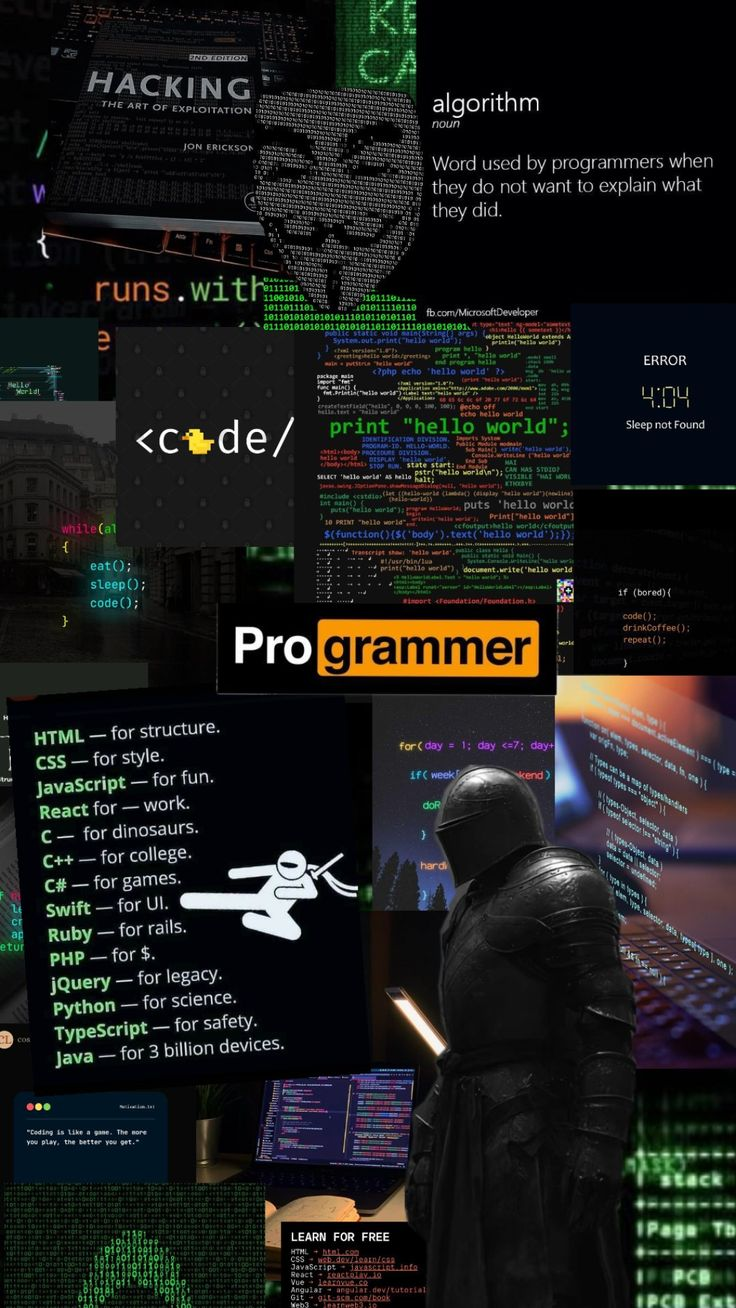
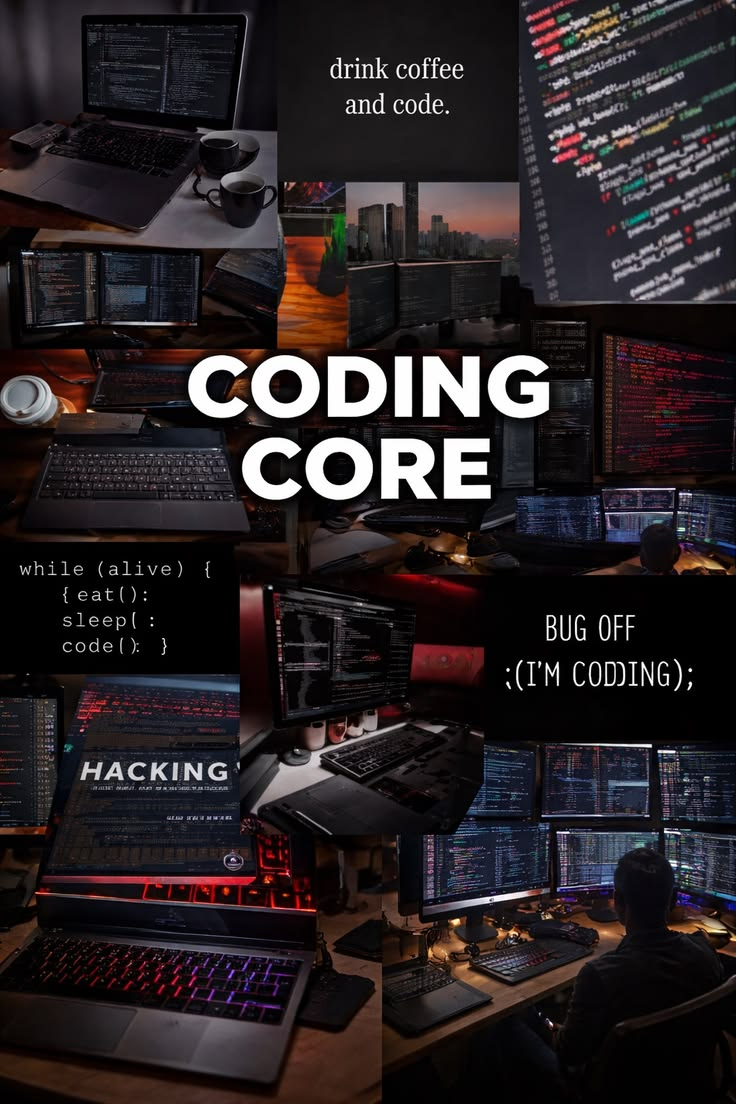
thumbs novas

diff --git a/index.html b/index.html
@@ -49,10 +49,10 @@
             <section class="videos">
 
                 <article class="card">
-                    <a href=""><img class="thumbnail" src="/teste/assets/thumb1.jpeg" alt="Título do vídeo"></a>
+                    <a href=""><img class="thumbnail" src="/assets/thumb1.jpeg" alt="Título do vídeo"></a>
 
                     <div class="card-info">
-                        <img class="avatar" src="/teste/assets/canal1.png" alt="Canal">
+                        <img class="avatar" src="/assets/canal1.png" alt="Canal">
 
                         <div class="info">
                             <h3 class="titulo">Título do vídeo</h3>
@@ -62,10 +62,10 @@
                     </div>
                  </article>
                  <article class="card">
-                    <a href=""><img class="thumbnail" src="/teste/assets/thumb1.jpeg" alt="Título do vídeo"></a>
+                    <a href=""><img class="thumbnail" src="/assets/thumb2.jpeg" alt="Título do vídeo"></a>
 
                     <div class="card-info">
-                        <img class="avatar" src="/teste/assets/canal1.png" alt="Canal">
+                        <img class="avatar" src="/assets/canal1.png" alt="Canal">
 
                         <div class="info">
                             <h3 class="titulo">Título do vídeo</h3>
@@ -75,10 +75,10 @@
                     </div>
                  </article>
                  <article class="card">
-                    <a href=""><img class="thumbnail" src="/teste/assets/thumb1.jpeg" alt="Título do vídeo"></a>
+                    <a href=""><img class="thumbnail" src="/assets/thumb3.jpeg" alt="Título do vídeo"></a>
 
                     <div class="card-info">
-                        <img class="avatar" src="/teste/assets/canal1.png" alt="Canal">
+                        <img class="avatar" src="/assets/canal1.png" alt="Canal">
 
                         <div class="info">
                             <h3 class="titulo">Título do vídeo</h3>
@@ -88,10 +88,10 @@
                     </div>
                  </article>
                  <article class="card">
-                    <a href=""><img class="thumbnail" src="/teste/assets/thumb1.jpeg" alt="Título do vídeo"></a>
+                    <a href=""><img class="thumbnail" src="/assets/thumb2.jpeg" alt="Título do vídeo"></a>
 
                     <div class="card-info">
-                        <img class="avatar" src="/teste/assets/canal1.png" alt="Canal">
+                        <img class="avatar" src="/assets/canal1.png" alt="Canal">
 
                         <div class="info">
                             <h3 class="titulo">Título do vídeo</h3>
@@ -101,10 +101,10 @@
                     </div>
                  </article>
                  <article class="card">
-                    <a href=""><img class="thumbnail" src="/teste/assets/thumb1.jpeg" alt="Título do vídeo"></a>
+                    <a href=""><img class="thumbnail" src="/assets/thumb3.jpeg" alt="Título do vídeo"></a>
 
                     <div class="card-info">
-                        <img class="avatar" src="/teste/assets/canal1.png" alt="Canal">
+                        <img class="avatar" src="/assets/canal1.png" alt="Canal">
 
                         <div class="info">
                             <h3 class="titulo">Título do vídeo</h3>
@@ -114,10 +114,10 @@
                     </div>
                  </article>
                  <article class="card">
-                    <a href=""><img class="thumbnail" src="/teste/assets/thumb1.jpeg" alt="Título do vídeo"></a>
+                    <a href=""><img class="thumbnail" src="/assets/thumb1.jpeg" alt="Título do vídeo"></a>
 
                     <div class="card-info">
-                        <img class="avatar" src="/teste/assets/canal1.png" alt="Canal">
+                        <img class="avatar" src="/assets/canal1.png" alt="Canal">
 
                         <div class="info">
                             <h3 class="titulo">Título do vídeo</h3>
@@ -127,10 +127,10 @@
                     </div>
                  </article>
                  <article class="card">
-                    <a href=""><img class="thumbnail" src="/teste/assets/thumb1.jpeg" alt="Título do vídeo"></a>
+                    <a href=""><img class="thumbnail" src="/assets/thumb1.jpeg" alt="Título do vídeo"></a>
 
                     <div class="card-info">
-                        <img class="avatar" src="/teste/assets/canal1.png" alt="Canal">
+                        <img class="avatar" src="/assets/canal1.png" alt="Canal">
 
                         <div class="info">
                             <h3 class="titulo">Título do vídeo</h3>
@@ -140,10 +140,10 @@
                     </div>
                  </article>
                  <article class="card">
-                    <a href=""><img class="thumbnail" src="/teste/assets/thumb1.jpeg" alt="Título do vídeo"></a>
+                    <a href=""><img class="thumbnail" src="/assets/thumb2.jpeg" alt="Título do vídeo"></a>
 
                     <div class="card-info">
-                        <img class="avatar" src="/teste/assets/canal1.png" alt="Canal">
+                        <img class="avatar" src="/assets/canal1.png" alt="Canal">
 
                         <div class="info">
                             <h3 class="titulo">Título do vídeo</h3>
@@ -153,10 +153,10 @@
                     </div>
                  </article>
                  <article class="card">
-                    <a href=""><img class="thumbnail" src="/teste/assets/thumb1.jpeg" alt="Título do vídeo"></a>
+                    <a href=""><img class="thumbnail" src="/assets/thumb3.jpeg" alt="Título do vídeo"></a>
 
                     <div class="card-info">
-                        <img class="avatar" src="/teste/assets/canal1.png" alt="Canal">
+                        <img class="avatar" src="/assets/canal1.png" alt="Canal">
 
                         <div class="info">
                             <h3 class="titulo">Título do vídeo</h3>
@@ -166,10 +166,10 @@
                     </div>
                  </article>
                  <article class="card">
-                    <a href=""><img class="thumbnail" src="/teste/assets/thumb1.jpeg" alt="Título do vídeo"></a>
+                    <a href=""><img class="thumbnail" src="/assets/thumb2.jpeg" alt="Título do vídeo"></a>
 
                     <div class="card-info">
-                        <img class="avatar" src="/teste/assets/canal1.png" alt="Canal">
+                        <img class="avatar" src="/assets/canal1.png" alt="Canal">
 
                         <div class="info">
                             <h3 class="titulo">Título do vídeo</h3>
@@ -179,10 +179,10 @@
                     </div>
                  </article>
                  <article class="card">
-                    <a href=""><img class="thumbnail" src="/teste/assets/thumb1.jpeg" alt="Título do vídeo"></a>
+                    <a href=""><img class="thumbnail" src="/assets/thumb1.jpeg" alt="Título do vídeo"></a>
 
                     <div class="card-info">
-                        <img class="avatar" src="/teste/assets/canal1.png" alt="Canal">
+                        <img class="avatar" src="/assets/canal1.png" alt="Canal">
 
                         <div class="info">
                             <h3 class="titulo">Título do vídeo</h3>
@@ -192,10 +192,10 @@
                     </div>
                  </article>
                  <article class="card">
-                    <a href=""><img class="thumbnail" src="/teste/assets/thumb1.jpeg" alt="Título do vídeo"></a>
+                    <a href=""><img class="thumbnail" src="/assets/thumb3.jpeg" alt="Título do vídeo"></a>
 
                     <div class="card-info">
-                        <img class="avatar" src="/teste/assets/canal1.png" alt="Canal">
+                        <img class="avatar" src="/assets/canal1.png" alt="Canal">
 
                         <div class="info">
                             <h3 class="titulo">Título do vídeo</h3>
